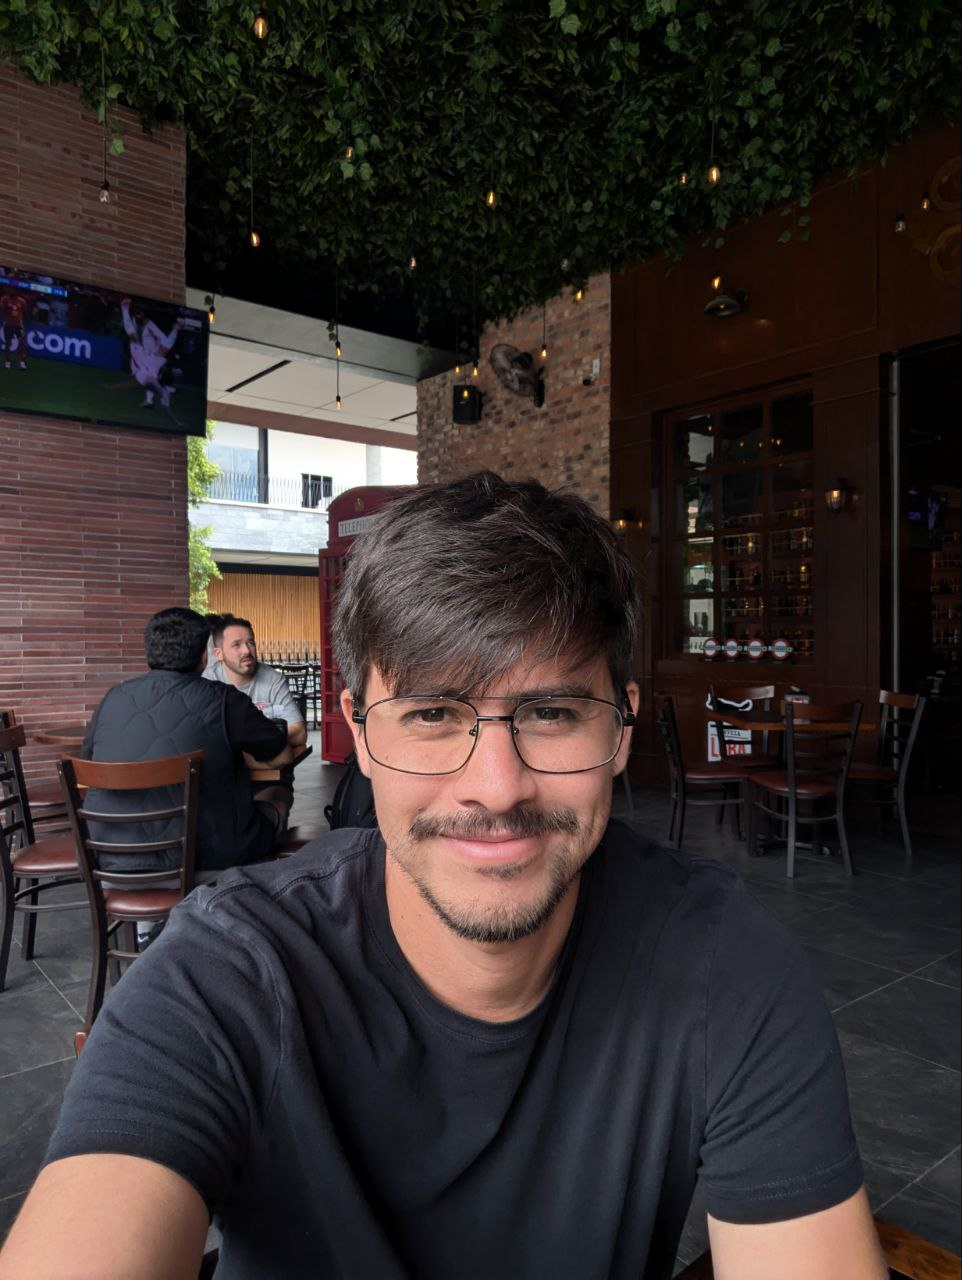
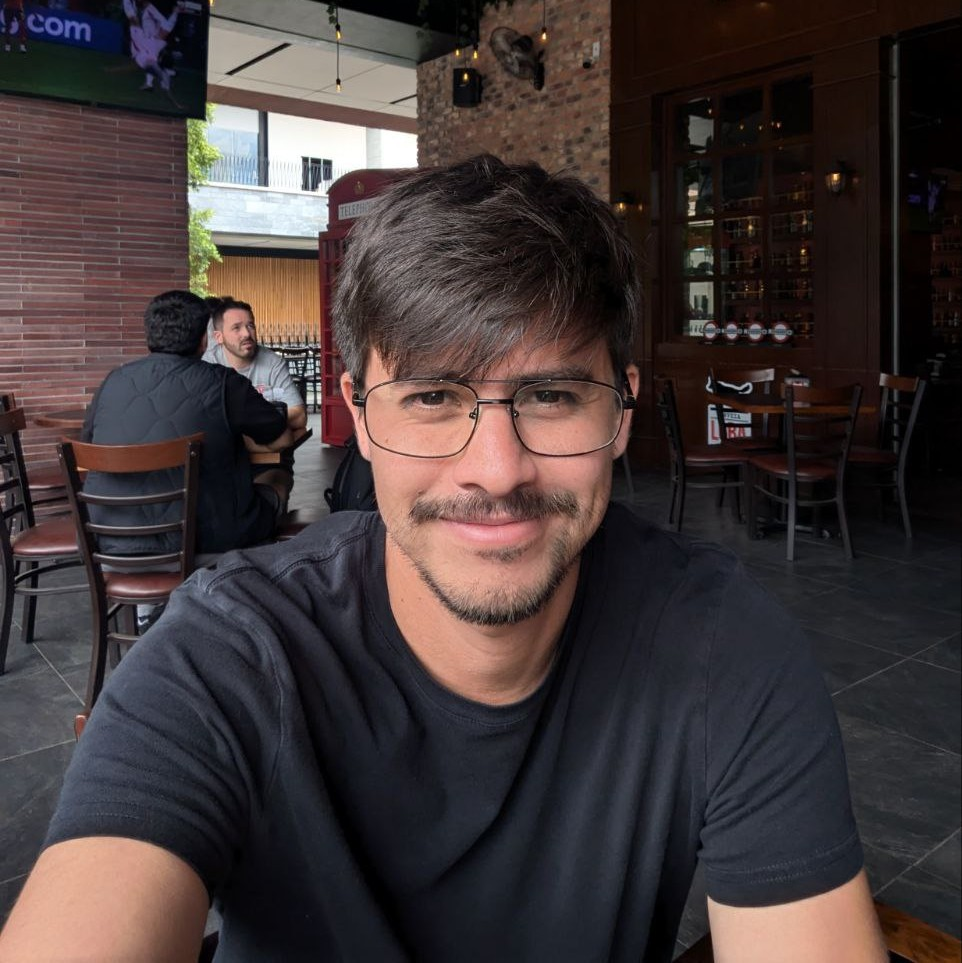
new ui design, flex box skills

diff --git a/public/skills.html b/public/skills.html
@@ -7,71 +7,73 @@
     <link rel="stylesheet" href="./../style.css" />
 </head>
 <body>
-
-    <div class="container">
-        <!-- use layouts 2 columns -->
-        <div class="child leftright">
-            <h1>Luis Lomeli's Skills</h1>
-            <hr/>
-            <div class="container">
-                <div class="dis">
-                    <h2>Web Technologies</h2>
-                    <ul>
-                        <li>HTML</li>
-                        <li>CSS</li>
-                        <li>JavaScript</li>
-                        <li>SQL / MySql / Postgres</li>
-                        <li>Python / Django</li>
-                        <li>Bash Scripting</li>
-                    </ul>
-                    <h2>Software Skills</h2>
-                    <ul>
-                        <li>UML Design</li>
-                        <li>State Machines</li>
-                        <li>Design Patterns / MVC</li>
-                        <li>SDLC</li>
-                        <li>Agile / Scrum / Kanban</li>
-                        <li>ASPICE</li>
-                        <li>Data Structures</li>
-                        <li>Object Oriented</li>
-                    </ul>
-                    <h2>Other Skills</h2>
-                    <ul>
-                        <li>3D Modeling / SolidWorks</li>
-                        <li>3D Printing</li>
-                        <li>PCB Design</li>
-                        <li>PLC Programming</li>
-                    </ul>
-                </div>
-                <div class="dis">
-                    <h2>Programming Languages</h2>
-                    <ul>
-                        <li>C/C++</li>
-                        <li>Java</li>        
-                    </ul>
-                    <h2>Embedded System Skills</h2>
-                    <ul>
-                        <li>Real Time OS / FreeRTOS </li>
-                        <li>ARM Architechture</li>
-                        <li>Bare-metal drivers</li>
-                        <li>Networking / Protocols</li>
-                    </ul>
-                    <h2>Tech Tools</h2>
-                    <ul>
-                        <li>Excel / PowerPoint / Word </li>
-                        <li>Outlook / Teams / Access</li></li>
-                        <li>Git / GitHub / Gerrit / GitLab</li>
-                        <li>Jenkins / GitHub Actions</li>
-                        <li>Jira / Trello / Mattermost</li>
-                        <li>Confluence / Wiki</li>
-                        <li>Docker / Compose</li>
-                        <li>Nginx / Apache</li>
-                        <li>Vector CANoe</li>
-                        <li>VSCode / Visual Studio</li>
-                        <li>CMake</li>
-                    </ul>
-                </div>
-            </div>
+    <h1>Luis Lomeli's Skills</h1>
+    <hr/>
+    <div class="skill-container">
+        <div class="skill-box">
+            <h2>Programming Languages</h2>
+            <ul>
+                <li>C/C++</li>
+                <li>Java</li>        
+            </ul>
+        </div>
+        <div class="skill-box">
+            <h2>Web Technologies</h2>
+            <ul>
+                <li>HTML</li>
+                <li>CSS</li>
+                <li>JavaScript</li>
+                <li>SQL / MySql / Postgres</li>
+                <li>Python / Django</li>
+                <li>Bash Scripting</li>
+            </ul>
+        </div>
+        <div class="skill-box">
+            <h2>Software Skills</h2>
+            <ul>
+                <li>UML Design</li>
+                <li>State Machines</li>
+                <li>Design Patterns / MVC</li>
+                <li>SDLC</li>
+                <li>Agile / Scrum / Kanban</li>
+                <li>ASPICE</li>
+                <li>Data Structures</li>
+                <li>Object Oriented</li>
+            </ul>
+        </div>
+        <div class="skill-box embd">
+            <h2>Embedded System Skills</h2>
+            <ul>
+                <li>Real Time OS / FreeRTOS </li>
+                <li>ARM Architechture</li>
+                <li>Bare-metal drivers</li>
+                <li>Networking / Protocols</li>
+            </ul>
+        </div>
+        <div class="skill-box tools">
+            <h2>Tech Tools</h2>
+            <ul>
+                <li>Excel / PowerPoint / Word </li>
+                <li>Outlook / Teams / Access</li></li>
+                <li>Git / GitHub / Gerrit / GitLab</li>
+                <li>Jenkins / GitHub Actions</li>
+                <li>Jira / Trello / Mattermost</li>
+                <li>Confluence / Wiki</li>
+                <li>Docker / Compose</li>
+                <li>Nginx / Apache</li>
+                <li>Vector CANoe</li>
+                <li>VSCode / Visual Studio</li>
+                <li>CMake</li>
+            </ul>
+        </div>
+        <div class="skill-box other">
+            <h2>Other Skills</h2>
+            <ul>
+                <li>3D Modeling / SolidWorks</li>
+                <li>3D Printing</li>
+                <li>PCB Design</li>
+                <li>PLC Programming</li>
+            </ul>
         </div>
     </div>
 </body>

diff --git a/style.css b/style.css
@@ -1,128 +1,113 @@
-*{
-    background-color: rgb(44, 43, 85);
+body {
+    background-color: #96ceb4;
+    color: white;
 }
 
-#him{
-
-    border: 3px dashed whitesmoke;
-    border-radius: 10%;
-}
-
-#abim{
-    border: 5px dashed black;
-    border-radius: 40%;
+img{
+    margin: 10px;
+    border-radius: 5px;
 }
 
 .container{
-    width: 100%;
-    text-align:center;
+    display: flex;
+    flex-direction: column;
+    justify-content:center;
+    align-items: center;
+    height: 100vh;
+}
+
+.skill-container {
+    display: flex;
+    flex-wrap: wrap;
+    align-items: center;
+    justify-content: center;
+    height: 100vh;
+    gap: 2rem;
+}
+
+.skill-box {
+    background-color: #ffeead;
+    border-radius: 10px;
+    margin: 0;
+    padding: 10px;
+    min-width: 200px;
+    height: 190px;
+}
+
+li {
+    color: black;
+}
+
+.embd {
+    background-color: #ff6f69;
+    color: white;
+}
+
+.skill-container .embd * {
+    color: white;
+}
+
+.tools {
+    background-color: #ffcc5c;
+}
+
+.skill-container .tools * {
+    color: white;
+}
+
+.other {
+    background-color: #fefbd8;   
+}
+
+.skill-container h2 {
+    color: black;
+    padding: 0;
+    margin: 0;
 }
 
 .child{
-    width: 440px;
-    margin: 0 auto;
+    min-width: 400px;
+    max-width: 600px;
+    text-align: center;
+    height: 100%;
 }
 
 .schild{
     width: 50%;
 }
 
-.imagen{
-    position: relative;
-    top: 0px;
-    left: 0px;
-}
-
-.backsk{
-    background-color: rgb(79, 199, 235);
-}
-
-.myclass{
-    margin-top: 10px;
-    margin-bottom: 10px;
-    padding-right: 5px;
-    padding-left: 5px;
-}
-
-ul{
-    margin-left: -40px;
-    list-style-position: inside;
-}
-
-#iddes{
-    color: coral;
-}
-
-button{
-    background-color: chartreuse;
-    border-radius: 10px;
-    padding: 10px;
-    font-size: 12px;
-    font-weight: bold;
-}
-
-h3{
-    color:aliceblue;
+#ytl {
+    display: block;
 }
 
 h2{
-    color:rgb(226, 119, 26);
+    color: #36486b;
 }
 
 h1{
     font-size: 3rem;
-    color: cornflowerblue;
 }
 
-#idpersonal{
-    color: cornflowerblue;
+a {
+    text-decoration: none;
 }
 
-a{
-    color: rgb(58, 214, 55);
+.button{
+    background-color: #ffeead;
+    text-align: center;
+    font-size: 1em;
+    padding: 5px;
+    border-radius: 5px;
 }
 
 p{
     font-size: 12px;
-    color:beige;
+    color: black;
 }
 
-li{
-    font-size: 12px;
-    color:beige;
-}
-
-.justxt p{
+.justxt {
     font-size: medium;
     text-align: justify;
-}
-
-.justxt li{
-    font-size: medium;
-    text-align: justify;
-}
-
-.leftright h2{
-    text-align: right;
-}
-
-.leftright li{
-    font-size: large;
-    text-align: justify;
-}
-
-.dis h2{
-    text-align: left;
-}
-
-.dis{
-    display: inline-block;
-    vertical-align: top;
-    width: 200px;
-    height: 350px;
-    border: 0px;
-    margin: 0px;
-    padding: 0px;
 }
 
 footer {

diff --git a/index.html b/index.html
@@ -10,27 +10,33 @@
     <div class="container">
         <div class="child">
             <h1>Luis Lomeli's Portfolio</h1>
-            <div class="imagen">
-                <img id="him" src="./assets/images/yt_ch.png" alt="YtChLogo" height="200"/>
-            </div>
-            <h2 id="iddes">I'm a Software Developer</h2>
-            <button>Go Crazy</button>
+            <a id="ytl" href="https://www.youtube.com/@CodigoObjeto">
+                <img src="./assets/images/yt_ch.png" alt="YtChLogo" height="200"/>
+            </a>
+            <a href="https://github.com/lrolomeli">
+                <img src="./assets/images/git.png" alt="GitLogo" height="50"/>
+            </a>
+            <a href="https://www.linkedin.com/in/luis-roberto-lomeli-plascencia-2973282b4/">
+                <img src="./assets/images/linkedin.jpg" alt="LinkedInLogo" height="50"/>
+            </a>
+            <h2>Software Developer</h2>
             <hr/>
+        
             <h3>Experience</h3>
-            <a class="myclass" href="./public/work.html">Recent Jobs</a>
-            <a class="myclass" href="./public/projects.html">Projects</a>
+            <a class="button" href="./public/work.html">Recent Jobs</a>
+            <a class="button" href="./public/projects.html">Projects</a>
             <hr/>
             <h3>Education</h3>
-            <a href="./public/education.html">Achievements</a>
+            <a class="button" href="./public/education.html">Achievements</a>
             <hr/>
             <h3>Skills</h3>
-            <a href="./public/skills.html">Professional Skills</a>
+            <a class="button" href="./public/skills.html">Professional Skills</a>
             <hr/>
-            <a class="myclass" href="./public/about.html">About Me</a>
-            <a class="myclass" href="./public/contact.html">Contact Me</a>
+            <a class="button" href="./public/about.html">About Me</a>
+            <a class="button" href="./public/contact.html">Contact Me</a>
             <footer>
                 <p id="idpersonal">Copyright © 2025</p>
-                <p>Author: Luis Lomeli<br>
+                <p>Author: Luis Lomeli</p>
             </footer>
         </div>
     </div>

diff --git a/public/about.html b/public/about.html
@@ -13,7 +13,7 @@
             <!-- Add an image of yourself that links to the about page -->
             <hr />
             <!-- Add a link to your contact me page here -->
-            <img id="abim" src="./../assets/images/yo.jpg" alt="selfie" height="300"/>
+            <img id="abim" src="./../assets/images/yo.jpg" alt="selfie" height="200"/>
             <h2>Professional Objective</h2>
             <p>
                 I'm an embedded software engineer, with experience working for automotive industry. I feel passionate and motivated every time I discover and understand how complex systems work, besides that I really enjoy programming and solving problems cleverly.
